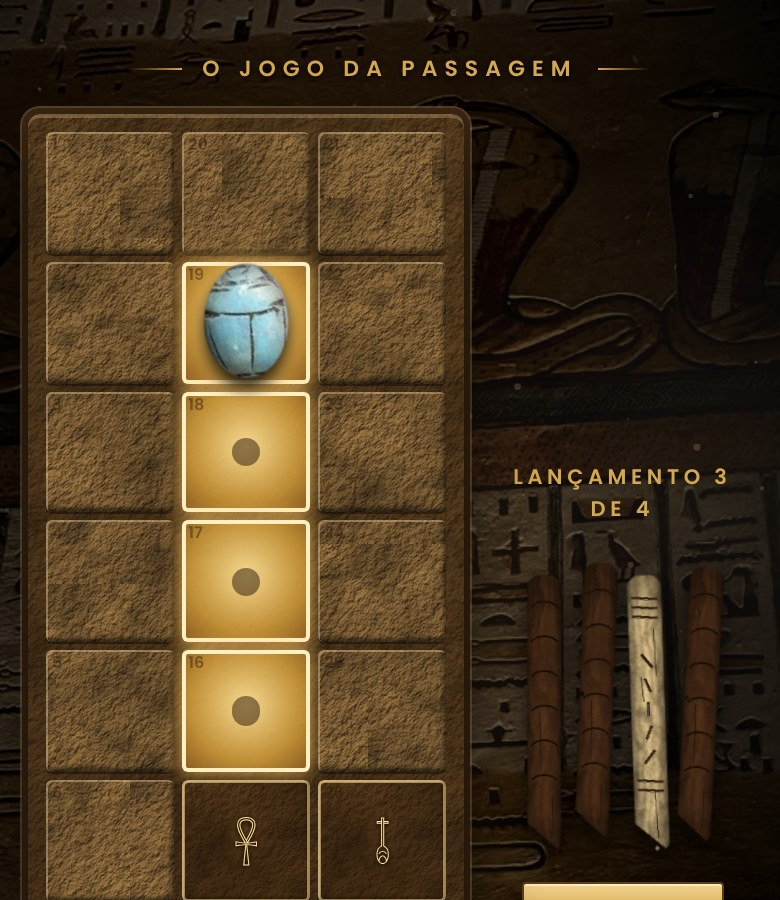
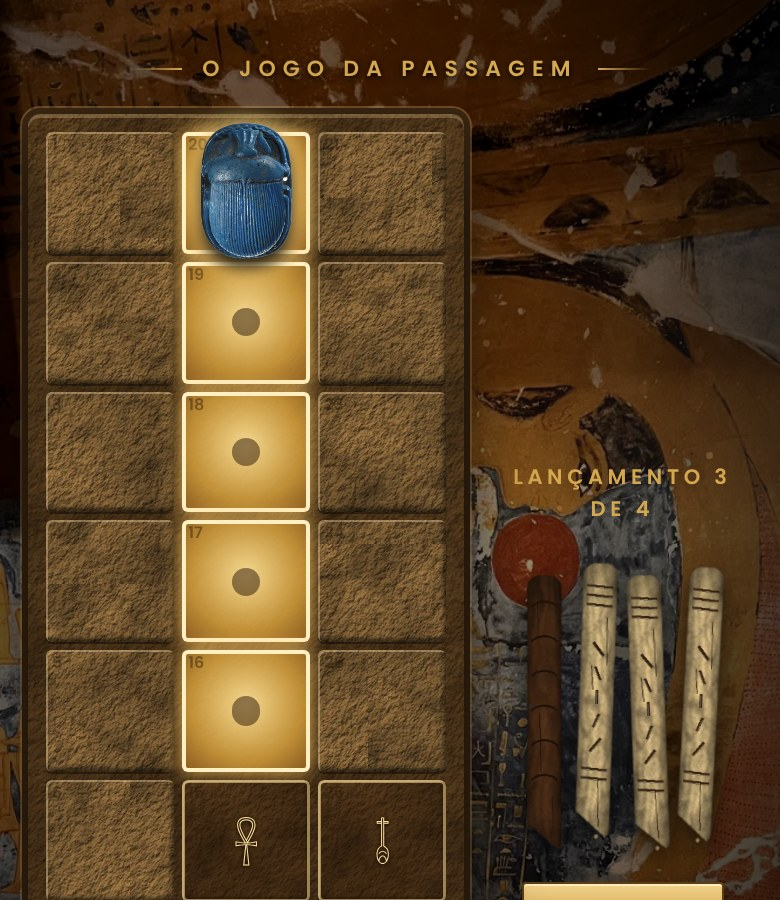
Egito: peça do Senet é o escaravelho de faiança azul da nova referência
Claude-Session: https://claude.ai/code/session_017RJGScnowdndvDzY2p9N3m

diff --git a/APP CARAVANA EGITO/app/oraculo.html b/APP CARAVANA EGITO/app/oraculo.html
@@ -106,8 +106,8 @@ p{margin:0}
 .casa.especial{box-shadow:inset 0 0 0 1.5px rgba(255,220,150,.55),inset 1px 1px 0 rgba(255,230,180,.35),inset -1px -2px 2px rgba(0,0,0,.55)}
 .casa::after{content:attr(data-n);position:absolute;left:3px;top:1px;font:600 8px var(--f-ui);color:rgba(40,24,10,.45)}
 .casa.final{box-shadow:inset 0 0 0 2px #F3D27A,0 0 14px rgba(255,200,110,.8)}
-.peca{position:absolute;width:20%;aspect-ratio:233/319;transform:translate(-50%,-52%);pointer-events:none;z-index:2;
-  filter:drop-shadow(0 5px 4px rgba(0,0,0,.85)) drop-shadow(0 0 7px rgba(255,210,120,.55));transition:left .3s ease,top .3s ease}
+.peca{position:absolute;width:21%;aspect-ratio:348/520;transform:translate(-50%,-52%);pointer-events:none;z-index:2;
+  filter:drop-shadow(0 5px 4px rgba(0,0,0,.85)) drop-shadow(0 0 6px rgba(255,214,130,.85)) brightness(1.15);transition:left .3s ease,top .3s ease}
 .peca img{display:block;width:100%;height:100%}
 .casa.passou{filter:none!important;background:radial-gradient(circle at 50% 45%,rgba(255,226,150,.95),rgba(214,160,60,.85) 60%,rgba(140,90,30,.9))!important;
   box-shadow:inset 0 0 0 2px #FFF0C4,0 0 10px rgba(255,200,100,.9)!important}
